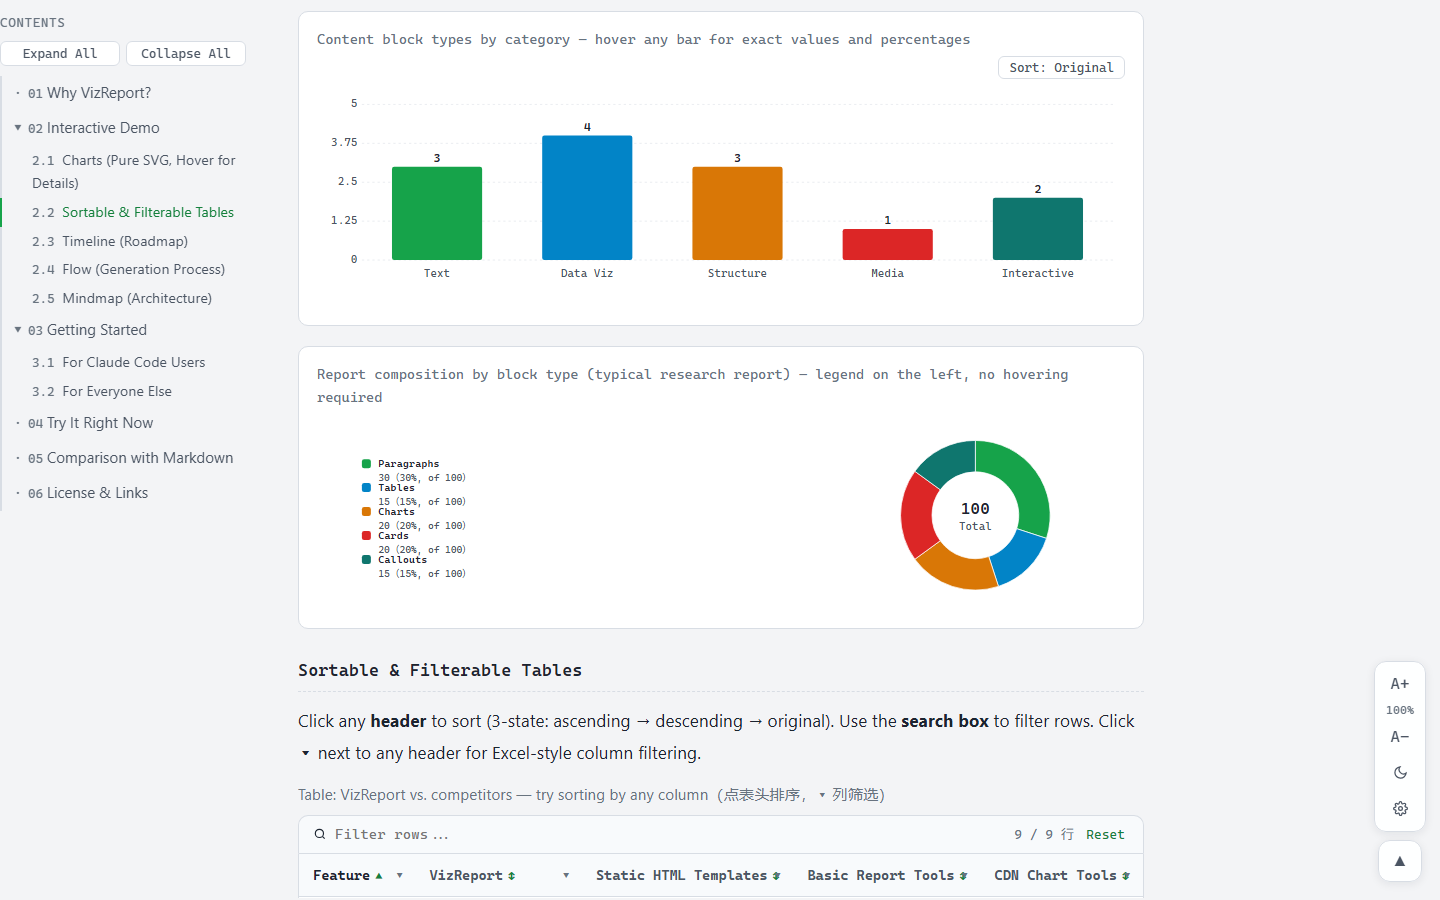
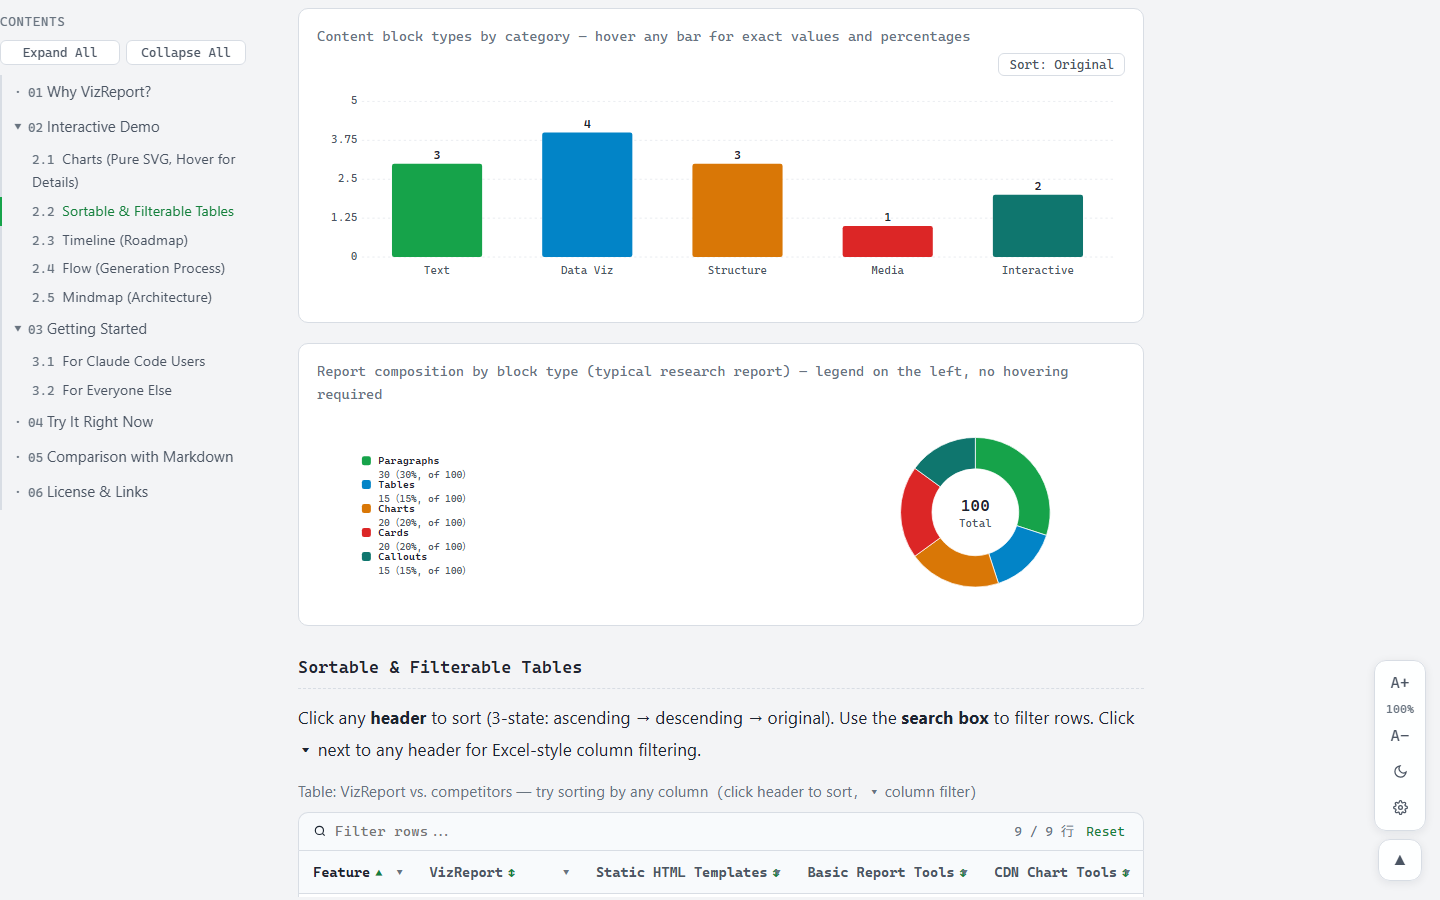
i18n complete: zero Chinese UI elements (verified), language toggle, sequential pattern replacement, data-t2 tooltip translation

diff --git a/docs/index.html b/docs/index.html
@@ -1556,7 +1556,15 @@ footer .fmeta{display:flex;flex-wrap:wrap;gap:8px;margin-top:14px}
           [/，共\s*([\d,]+)/g, ', of $1'],
           [/值：\s*([\d,]+)/, 'Value: $1'],
           [/偏好经浏览器\s*localStorage\s*全局保存.*$/, 'Preferences saved via localStorage (shared across pages).'],
-          [/（点表头排序.*?）/g, ''],
+          [/^生成于\s*(.*)/, 'Generated on $1'],
+          [/点表头排序/g, 'click header to sort'],
+          [/列筛选/g, 'column filter'],
+          [/，?点.*?排序.*?筛选.*?）/, ')'],
+          [/值：\s*([\d,]+)\s*（占\s*(\d+)%，共\s*([\d,]+)）/, 'Value: $1 ($2% of $3)'],
+          [/值：\s*([\d,]+)/, 'Value: $1'],
+          [/（占\s*(\d+)%，共\s*([\d,]+)）/, ' ($1% of $2)'],
+          [/，共\s*([\d,]+)/g, ', of $1'],
+          [/（共\s*([\d,]+)）/, ' (of $1)'],
           [/排序：原序/, 'Sort: Original'],
           [/排序：降序/, 'Sort: Descending'],
           [/排序：升序/, 'Sort: Ascending'],
@@ -1569,13 +1577,25 @@ footer .fmeta{display:flex;flex-wrap:wrap;gap:8px;margin-top:14px}
           [/主题/, 'Theme']
         ];
         for (var p = 0; p < patterns.length; p++) {
-          var newT = t.replace(patterns[p][0], patterns[p][1]);
-          if (newT !== t) { node.textContent = newT; break; }
+          t = t.replace(patterns[p][0], patterns[p][1]);
         }
+        if (t !== node.textContent) node.textContent = t;
       });
     })(document.body);
 
-    // 2) Replace placeholders
+    // 2) Replace data-t2 tooltip attributes (not reachable by TreeWalker)
+    document.querySelectorAll('[data-t2]').forEach(function(el) {
+      var v = el.getAttribute('data-t2');
+      if (!v || !/[\u4e00-\u9fff]/.test(v)) return;
+      v = v.replace(/值：\s*([\d,]+)\s*（占\s*(\d+)%，共\s*([\d,]+)）/, 'Value: $1 ($2% of $3)');
+      v = v.replace(/值：\s*([\d,]+)/, 'Value: $1');
+      v = v.replace(/（占\s*(\d+)%，共\s*([\d,]+)）/, ' ($1% of $2)');
+      v = v.replace(/，共\s*([\d,]+)/g, ', of $1');
+      v = v.replace(/（共\s*([\d,]+)）/, ' (of $1)');
+      el.setAttribute('data-t2', v);
+    });
+
+    // 3) Replace placeholders
     document.querySelectorAll('[placeholder]').forEach(function(el) {
       var p = el.getAttribute('placeholder');
       if (p.indexOf('搜索') >= 0 || p.indexOf('筛选') >= 0) {
